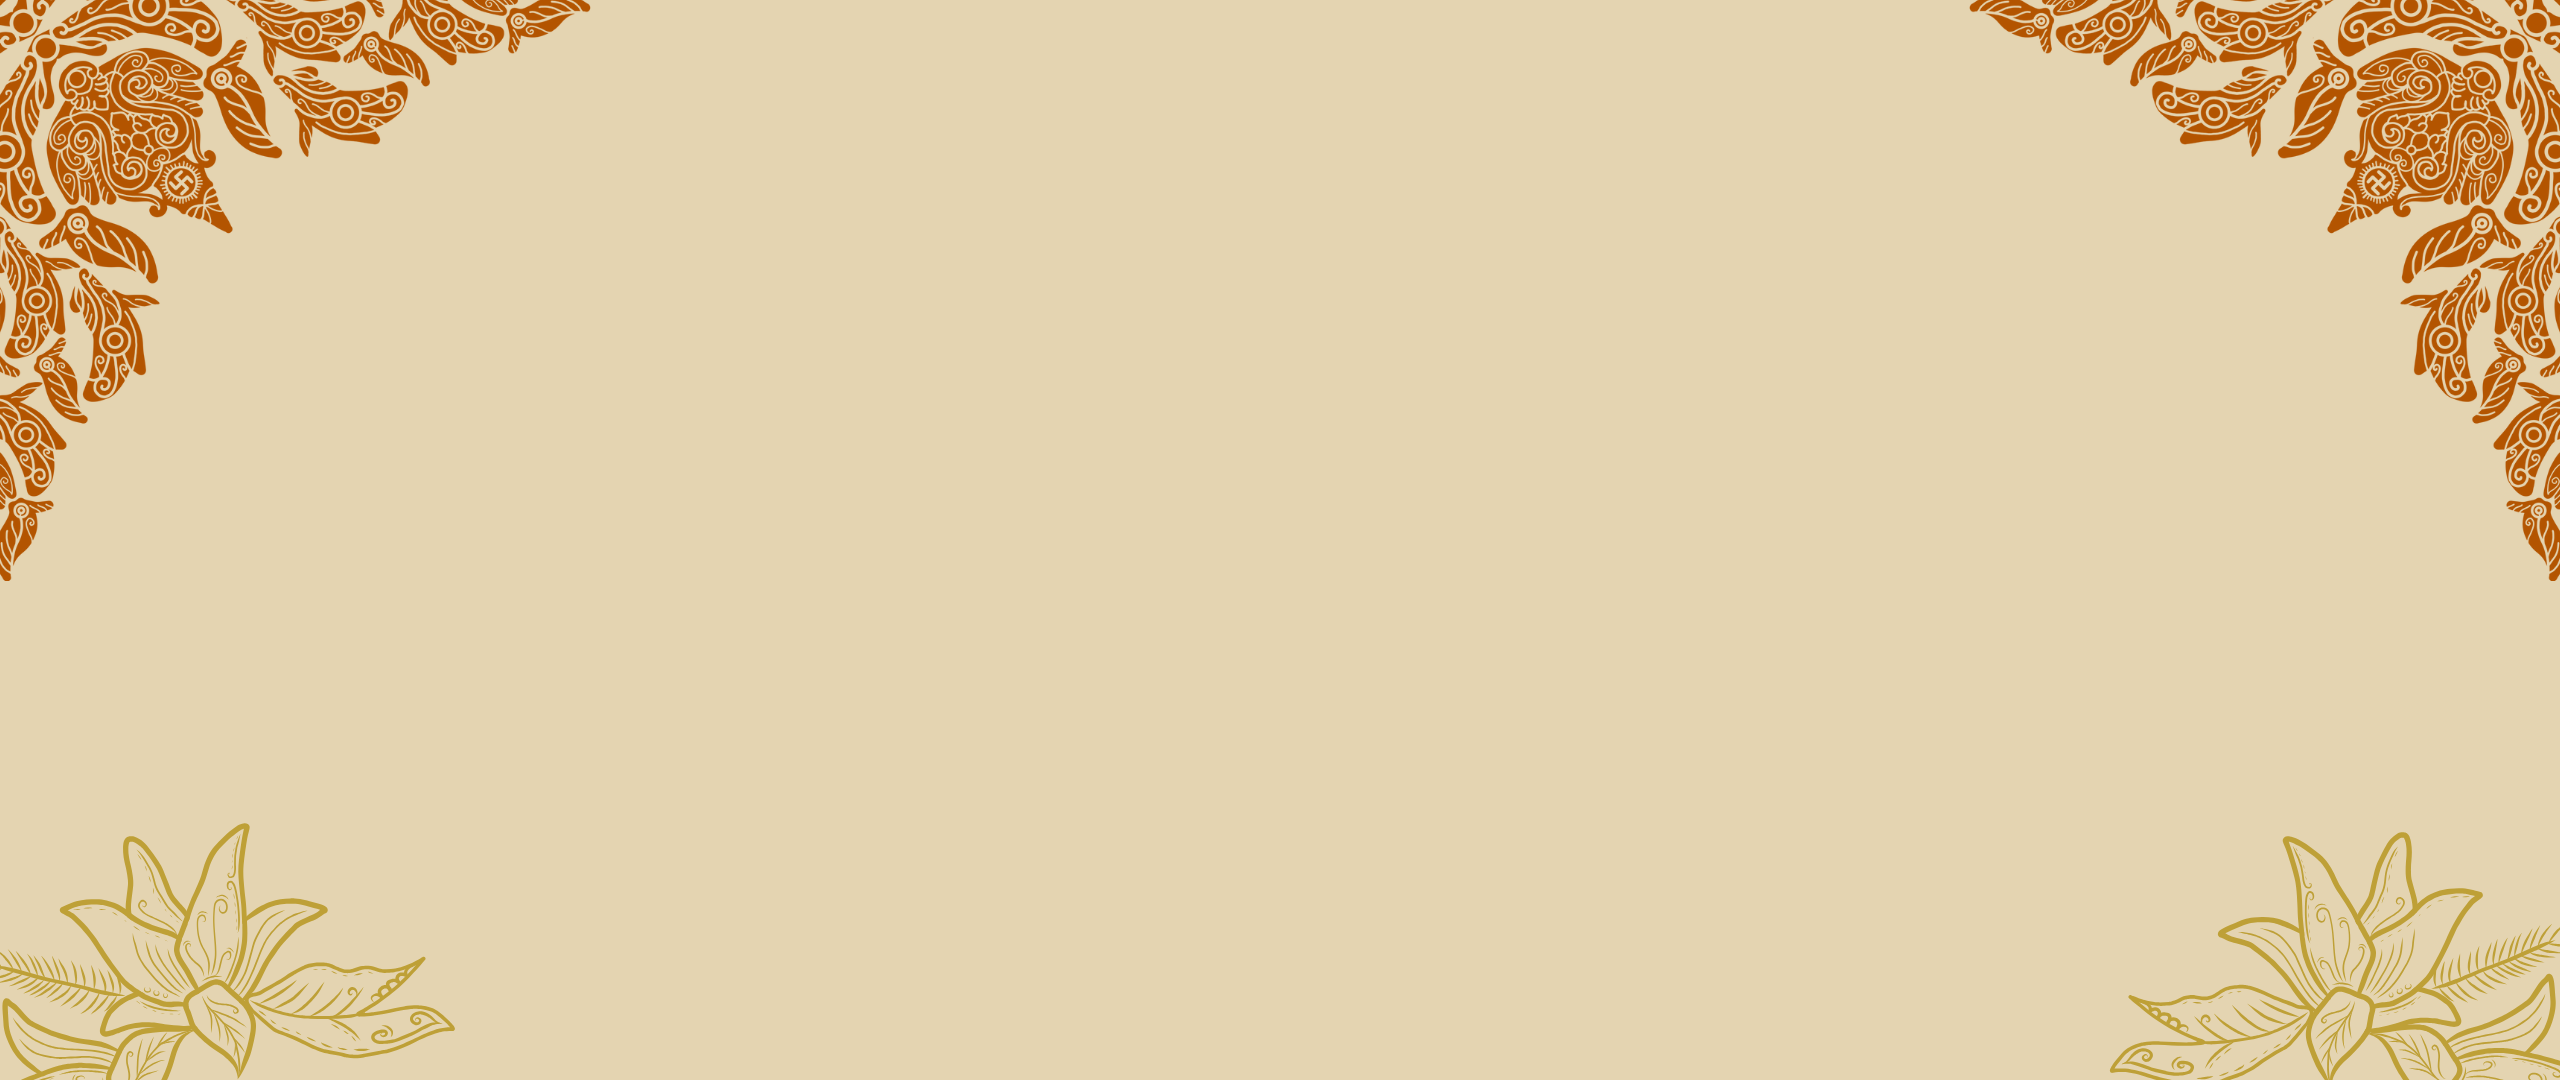
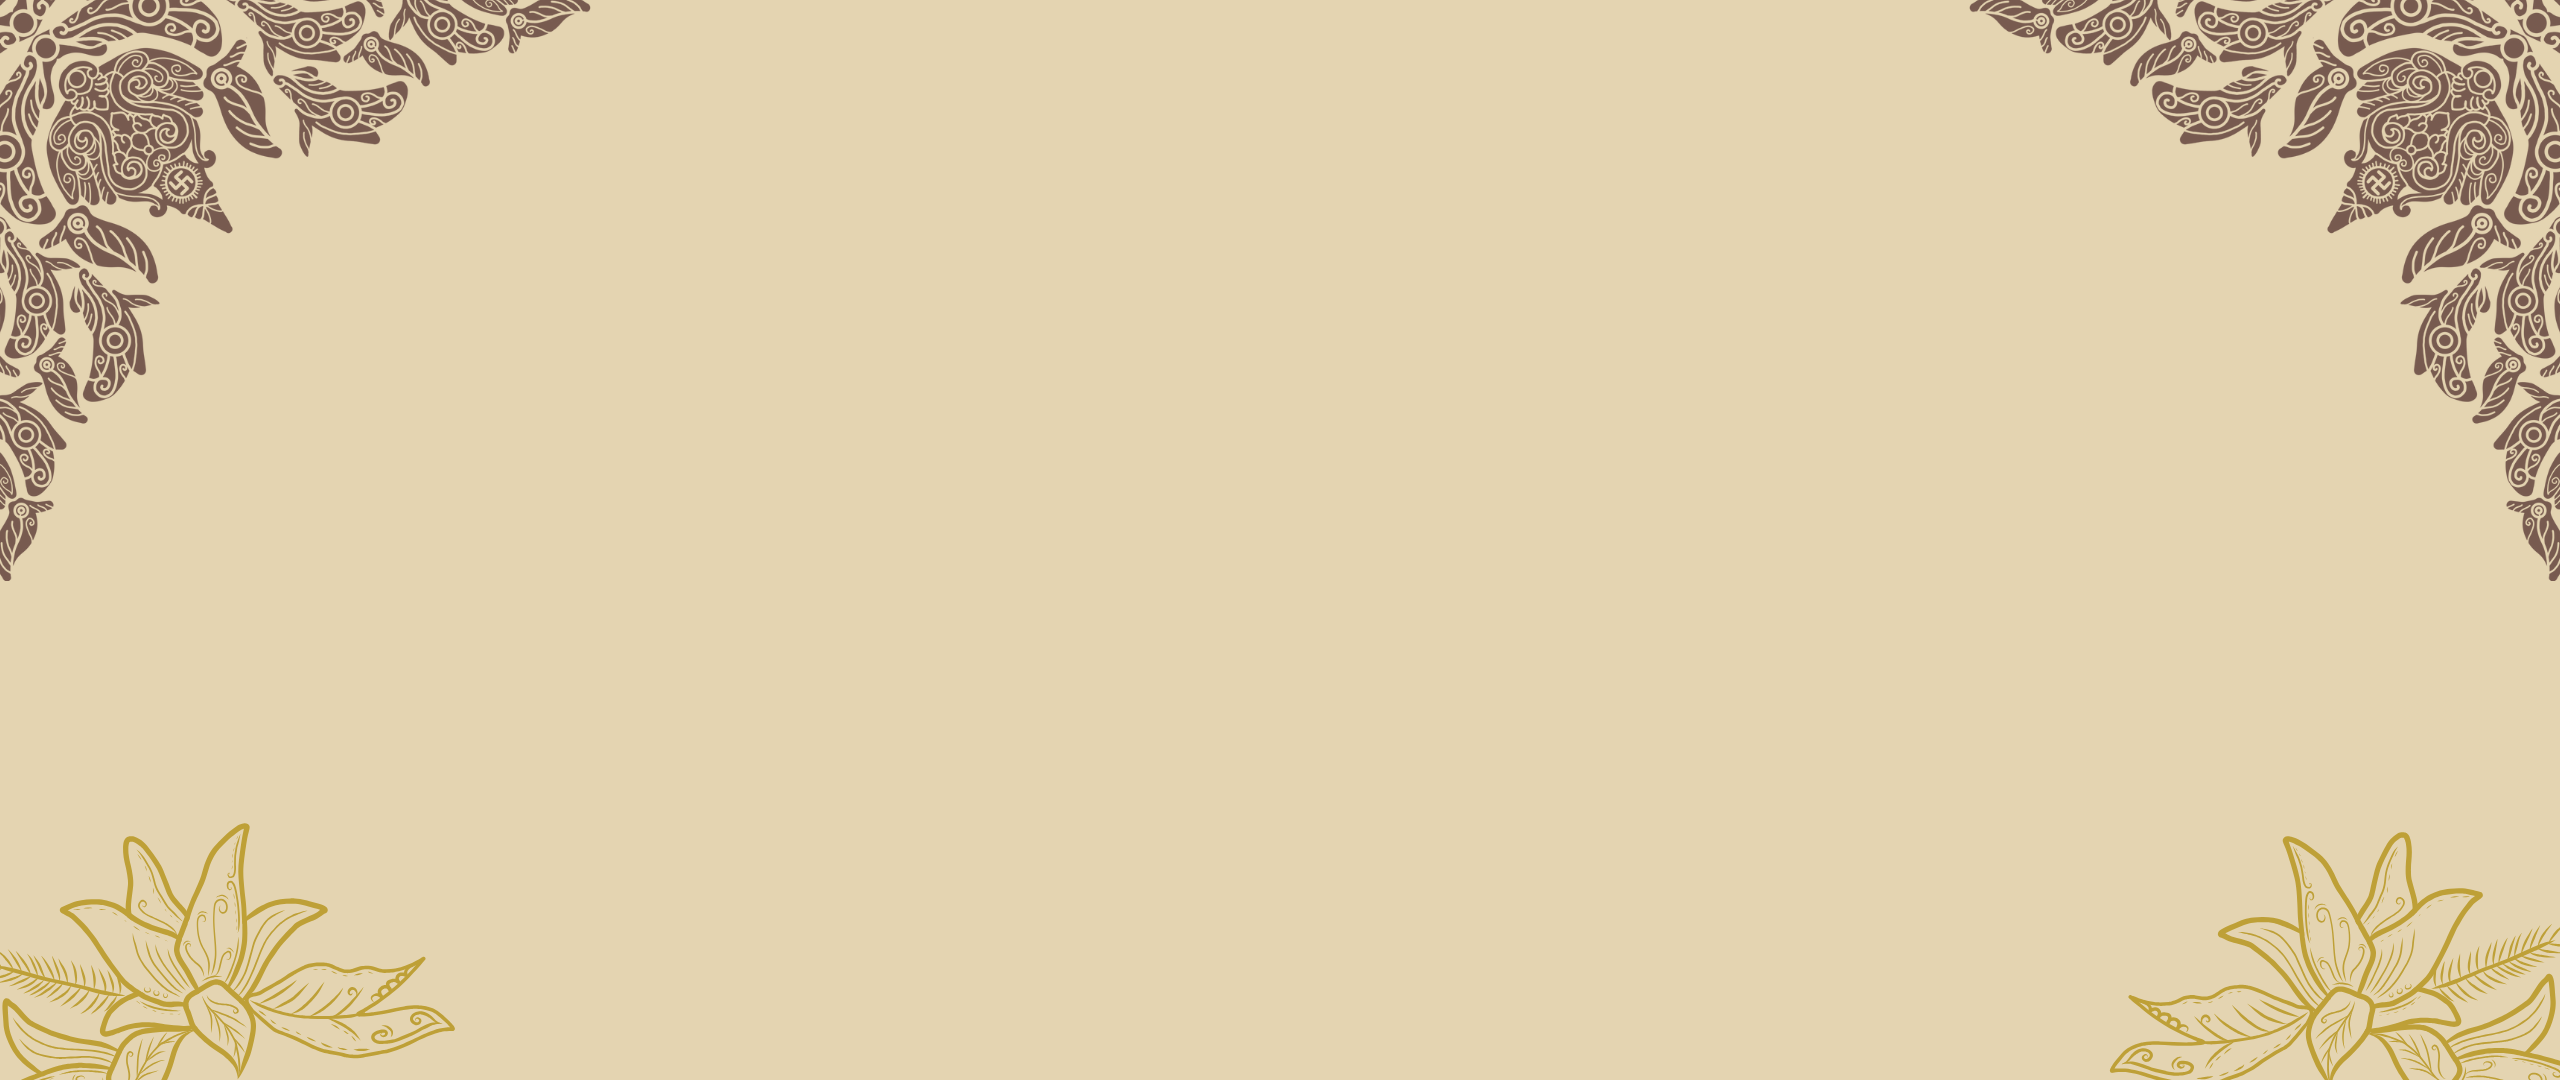
update: fix bug burger, ganti hero

Changed region(s): [[0.75, 0.0, 1.0, 0.5194], [0.0, 0.0, 0.25, 0.5194]]

diff --git a/src/styles/styles.css b/src/styles/styles.css
@@ -121,18 +121,14 @@ nav {
 
 nav .nav-container {
   background-color: var(--primary-color);
-
   position: sticky;
   inset-block-start: 0;
-
   box-shadow: 0 2px 2px 0 #333333aa;
 }
 
 nav .nav-content {
   padding: 16px 8px;
-
   display: flex;
-
   flex-direction: column;
   justify-content: space-between;
   row-gap: 8px;
@@ -152,13 +148,11 @@ nav .auth-btn-container a:hover {
   text-decoration: underline;
 }
 
-nav .nav-list {
+/* Default nav-list (mobile first: hidden) */
+.nav-list {
   list-style: none;
-
-  display: flex;
-  align-items: center;
-  justify-content: center;
-  flex-wrap: wrap;
+  display: none;
+  flex-direction: column;
   gap: 16px;
 }
 
@@ -172,7 +166,7 @@ nav .nav-list {
   cursor: pointer;
 }
 
-/* Mobile Responsive */
+/* Mobile (≤768px) */
 @media (max-width: 768px) {
   nav .nav-content {
     flex-direction: row;
@@ -198,6 +192,31 @@ nav .nav-list {
 
   .hamburger {
     display: block;
+  }
+}
+
+/* Desktop (≥769px) */
+@media (min-width: 769px) {
+  .nav-list {
+    display: flex;
+    flex-direction: row;
+    align-items: center;
+    justify-content: center;
+    flex-wrap: wrap;
+    gap: 16px;
+    position: static;
+    background: none;
+    box-shadow: none;
+  }
+
+  .hamburger {
+    display: none;
+  }
+
+  nav .nav-content {
+    flex-direction: row;
+    align-items: center;
+    justify-content: space-between;
   }
 }
 
@@ -480,11 +499,11 @@ main {
 /* Tombol CTA */
 .cta-buttons {
   display: flex;
-  justify-content: center;   /* tombol selalu ke tengah */
+  justify-content: center;   
   align-items: center;
-  gap: 20px;                 /* jarak antar tombol */
+  gap: 20px;                 
   margin-top: 20px;
-  flex-wrap: wrap;           /* biar responsif di layar kecil */
+  flex-wrap: wrap;           
 }
 
 .cta-buttons .btn {
@@ -499,20 +518,20 @@ main {
 
 .cta-buttons .btn:hover {
   background-color: var(--primary-color);
-  color: #fff; /* teks jadi kebalikan warna bg */
+  color: #fff; 
 }
 
 .cta-section p {
   font-size: 1.1em;
   margin-bottom: 20px;
-  color: white; /* biar kelihatan di bg gelap */
+  color: white; 
 }
 
 /* About Page */
 .about-section {
   padding: 60px 20px;
   text-align: center;
-  background-color: #f9f9f9; /* abu muda */
+  background-color: #f9f5ef; 
 }
 
 .about-section h2 {
@@ -583,11 +602,11 @@ main {
 }
 
 .kontak-section ul {
-  list-style: none;      /* hilangkan bullet */
+  list-style: none;      
   padding: 0;
   margin: 0 auto;
-  display: inline-block; /* biar rata tengah */
-  text-align: left;      /* isi teks rata kiri */
+  display: inline-block;
+  text-align: left;
 }
 
 .kontak-section ul li {

diff --git a/index.html b/index.html
@@ -23,7 +23,7 @@
             </div>
             <!-- Hamburger Button -->
             <button id="hamburger" class="hamburger">☰</button>
-            <ul class="nav-list">
+            <ul id="nav-list" class="nav-list">
               <li><a href="index.html">Beranda</a></li>
               <li><a href="batikmadura.html">Prediksi Batik Madura</a></li>
               <li><a href="batiknusantara.html">Prediksi Batik Nusantara</a></li>
@@ -58,7 +58,7 @@
         <h1>Statistik Penggunaan</h1>
         <div class="stats-container">
           <div class="stat-item">
-            <h2>10K+</h2>
+            <h2>1K+</h2>
             <p>Prediksi berhasil</p>
           </div>
           <div class="stat-item">
@@ -66,7 +66,7 @@
             <p>Akurasi Model</p>
           </div>
           <div class="stat-item">
-            <h2>500+</h2>
+            <h2>50+</h2>
             <p>Pengguna aktif</p>
           </div>
         </div>

diff --git a/batikmadura.html b/batikmadura.html
@@ -91,7 +91,7 @@
                 <hr class="footer-divider" />
                 <div class="main-footer">
                     <div class="copyright">
-                        © 2025 Batik Vision • Versi 1.0.0 | Sistem prediksi batik Nusantara dengan AI.
+                        © 2025 Batik Vision • Versi 1.0.1 | Sistem prediksi batik Nusantara dengan AI.
                     </div>
                     <div class="policies">
                         <a href="#" class="remove-style-link">Terms</a>

diff --git a/about.html b/about.html
@@ -80,8 +80,8 @@
           </div>
           <div class="team-card">
             <img src="src/images/logo-bv.png" alt="Teman" />
-            <h3>Bu Eva?</h3>
-            <p>Researcher?</p>
+            <h3>Ibu Eva</h3>
+            <p>Researcher</p>
           </div>
         </div>
       </div>
@@ -120,5 +120,6 @@
         </div>
       </div>
     </footer>
+    <script src="src/scripts/utils.js"></script>
 </body>
 </html>

diff --git a/src/scripts/utils.js b/src/scripts/utils.js
@@ -19,7 +19,7 @@ document.addEventListener("DOMContentLoaded", () => {
 
   // Hamburger Menu
   const hamburger = document.getElementById("hamburger");
-  const navList = document.getElementById("nav-list");
+  const navList = document.querySelector(".nav-list");
 
   if (hamburger && navList) {
     hamburger.addEventListener("click", () => {
